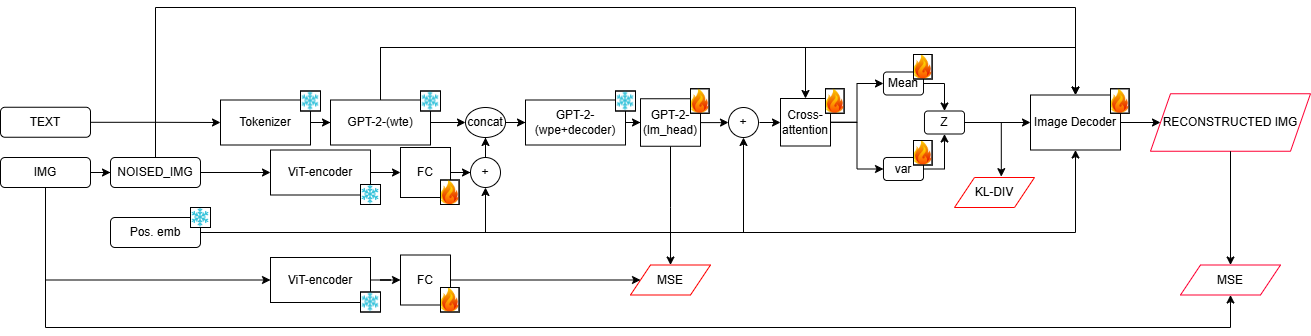
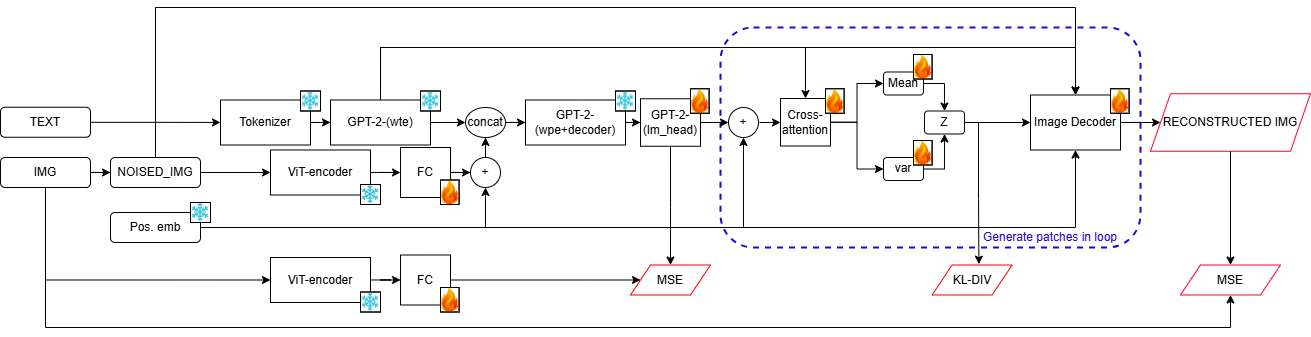
fix train loop, now I decode pathes in the loop

diff --git a/src/model.py b/src/model.py
@@ -320,7 +320,7 @@ class ImageTextGenerator(nn.Module):
     
     def forward(self, text, original_image, noisy_image, kl_weight=0.01):
         """
-        Forward pass with VAE components
+        Forward pass with VAE components and token-wise processing
         
         Args:
             text: Text descriptions
@@ -353,83 +353,178 @@ class ImageTextGenerator(nn.Module):
         ).unsqueeze(1)  # Shape: [batch_size, 1, embedding_dim]
         
         # Concatenate text embeddings with EOS token and noisy image embeddings
-        # Shapes: text_embeddings [batch_size, text_seq_len, hidden_size]
-        #         eos_token_embedding [batch_size, 1, hidden_size]
-        #         noisy_vit_embeddings [batch_size, img_seq_len+1, hidden_size] (+1 for class token)
         combined_embeddings = torch.cat([text_embeddings, eos_token_embedding, noisy_vit_embeddings], dim=1)
 
-        # Auto-regressively generate exactly img_seq_len token embeddings
-        generated_embeddings = []
+        # Подготовка для хранения результатов обработки каждого токена
+        generated_embeddings = []  # Для накопления сгенерированных эмбеддингов
+        mu_list = []  # Для накопления mu
+        log_var_list = []  # Для накопления log_var
+        z_list = []  # Для накопления samplez
+        decoded_patches = []  # Для накопления декодированных патчей
+        
+        # Разделение зашумленного изображения на патчи
+        noisy_patches = None
+        if noisy_image is not None:
+            noisy_patches = []
+            h = w = int(self.image_size // self.patch_size)
+            
+            for i in range(h):
+                for j in range(w):
+                    y_start = i * self.patch_size
+                    y_end = (i + 1) * self.patch_size
+                    x_start = j * self.patch_size
+                    x_end = (j + 1) * self.patch_size
+                    
+                    patch = noisy_image[:, :, y_start:y_end, x_start:x_end]
+                    noisy_patches.append(patch)
+        
+        # Авторегрессивно генерируем эмбеддинги и сразу их обрабатываем
         current_context = combined_embeddings
         
-        for _ in range(self.expected_patches):
-            # Get outputs for the current context
+        for p in range(self.expected_patches):
+            # 1. Генерация следующего токена
             outputs = self.gpt2(inputs_embeds=current_context)
-            next_token_logits = outputs.logits[:, -1, :]  # Get logits for next token [batch, vocab_size]
+            next_token_logits = outputs.logits[:, -1, :]  # [batch, vocab_size]
             
-            # Convert logits to embedding size using the embedding matrix
+            # Преобразование логитов в эмбеддинг
             next_token_embedding = torch.matmul(
-                torch.softmax(next_token_logits, dim=-1),  # Apply softmax to get probabilities [batch, vocab_size]
-                self.gpt2.transformer.wte.weight  # Token embedding matrix [vocab_size, hidden_size]
-            ).unsqueeze(1)  # Add sequence dimension [batch, 1, hidden_size]
+                torch.softmax(next_token_logits, dim=-1),
+                self.gpt2.transformer.wte.weight
+            ).unsqueeze(1)  # [batch, 1, hidden_size]
             
-            # Add to generated list
+            # Добавляем в список
             generated_embeddings.append(next_token_embedding)
             
-            # Update context for next iteration by concatenating
+            # 2. Добавление позиционного эмбеддинга
+            pos_emb = self.patch_pos_embedding[:, p:p+1, :].expand(batch_size, -1, -1)
+            next_token_with_pos = next_token_embedding + pos_emb
+            
+            # 3. Применение cross-attention: токен слушает текст
+            attended_token, _ = self.cross_attention(
+                query=next_token_with_pos,
+                key=text_embeddings,
+                value=text_embeddings
+            )
+            
+            # 4. Вычисление компонентов VAE
+            mu_token = self.fc_mu(attended_token)  # [batch, 1, latent_dim]
+            log_var_token = self.fc_var(attended_token)  # [batch, 1, latent_dim]
+            
+            # Сохраняем для подсчета потерь
+            mu_list.append(mu_token)
+            log_var_list.append(log_var_token)
+            
+            # 5. Репараметризация для каждого токена
+            z_token = self.reparameterize(mu_token, log_var_token)  # [batch, 1, latent_dim]
+            z_list.append(z_token)
+            
+            # 6. Декодирование патча из латентного представления
+            # Создаем текстовый контекст
+            text_context = text_embeddings.mean(dim=1, keepdim=True)  # [batch_size, 1, embed_dim]
+            
+            # Подготовка к декодированию
+            patch_with_context = torch.cat([z_token, text_context], dim=2)
+            
+            # Декодируем патч
+            decoded_patch = self.patch_decoder(patch_with_context.view(batch_size, -1))
+            
+            # 7. Если есть зашумленный патч, используем его для улучшения
+            if noisy_patches is not None:
+                noisy_patch = noisy_patches[p]  # Берем соответствующий патч
+                
+                # Объединяем декодированный и зашумленный патчи
+                combined_patch = torch.cat([decoded_patch, noisy_patch], dim=1)  # [batch, 6, patch_size, patch_size]
+                
+                # Применяем сеть уточнения
+                refined_patch = self.patch_refinement(combined_patch)
+                
+                # Сохраняем обработанный патч
+                decoded_patches.append(refined_patch)
+            else:
+                decoded_patches.append(decoded_patch)
+            
+            # Обновляем контекст для следующей итерации
             current_context = torch.cat([current_context, next_token_embedding], dim=1)
         
-        # Stack the generated embeddings
-        predicted_image_embeddings = torch.cat(generated_embeddings, dim=1)
-
-        # Compute losses
-        # 1. MSE loss between predicted embeddings and original embeddings
+        # Объединяем результаты всех токенов
+        predicted_image_embeddings = torch.cat(generated_embeddings, dim=1)  # [batch, num_patches, embed_dim]
+        mu = torch.cat(mu_list, dim=1)  # [batch, num_patches, latent_dim]
+        log_var = torch.cat(log_var_list, dim=1)  # [batch, num_patches, latent_dim]
+        z = torch.cat(z_list, dim=1)  # [batch, num_patches, latent_dim]
+        
+        # Применяем self-attention между всеми патчами если их больше одного
+        if len(decoded_patches) > 1:
+            # Подготавливаем последовательность патчей для self-attention
+            patches_seq = []
+            for patch in decoded_patches:
+                flat_patch = patch.reshape(batch_size, 3 * self.patch_size * self.patch_size, 1)
+                patches_seq.append(flat_patch)
+            
+            patches_seq = torch.cat(patches_seq, dim=2).transpose(1, 2)  # [batch, num_patches, features]
+            
+            # Применяем self-attention
+            attended_patches, _ = self.patch_self_attention(
+                query=patches_seq,
+                key=patches_seq,
+                value=patches_seq
+            )
+            
+            # Преобразуем обратно в список патчей
+            decoded_patches = []
+            for p in range(self.expected_patches):
+                patch_flat = attended_patches[:, p, :]
+                patch = patch_flat.view(batch_size, 3, self.patch_size, self.patch_size)
+                decoded_patches.append(patch)
+        
+        # Собираем полное изображение из патчей
+        h = w = int(self.image_size // self.patch_size)
+        rows = []
+        
+        for i in range(h):
+            row_patches = []
+            for j in range(w):
+                patch_idx = i * w + j
+                row_patches.append(decoded_patches[patch_idx])
+            
+            # Объединяем патчи в ряд
+            row = torch.cat(row_patches, dim=3)  # вдоль ширины
+            rows.append(row)
+        
+        # Объединяем ряды в изображение
+        predicted_image = torch.cat(rows, dim=2)  # вдоль высоты
+        predicted_image = torch.sigmoid(predicted_image)  # Гарантируем, что значения пикселей в [0, 1]
+        
+        # Вычисляем потери
+        # 1. MSE между предсказанными и оригинальными эмбеддингами
         mse_loss = torch.nn.functional.mse_loss(
             predicted_image_embeddings,
-            original_vit_embeddings[:, 1:, :]  # Exclude class token
+            original_vit_embeddings[:, 1:, :]  # Исключаем class token
         )
-
-        # Concatenate text context with image embeddings
-        patches_with_pos = predicted_image_embeddings + self.patch_pos_embedding
         
-        # Apply cross-attention: patches attend to text
-        attended_embeddings, _ = self.cross_attention(
-            query=patches_with_pos,
-            key=text_embeddings,
-            value=text_embeddings
-        )
-
-        # Calculate VAE components
-        mu = self.fc_mu(attended_embeddings)  # [batch, num_patches, latent_dim]
-        log_var = self.fc_var(attended_embeddings)  # [batch, num_patches, latent_dim]
+        # 2. KL дивергенция для VAE
+        kl_loss = self.kl_loss(mu, log_var)
         
-        # 3. KL divergence loss for VAE - computed per patch
-        kl_loss = self.kl_loss(mu, log_var)  # Already handles patch-wise computation
-        
-        # 4. Sample from latent space using reparameterization trick for each patch
-        z = self.reparameterize(mu, log_var)  # [batch, num_patches, latent_dim]
-        
-        # 5. Decode sampled latent vectors patch by patch с учетом зашумленного изображения
-        predicted_image = self.decode_image(z, text_embeddings, noisy_image)  # Передаем noisy_image
+        # 3. Потеря реконструкции
         reconstruction_loss = torch.nn.functional.mse_loss(
             predicted_image,
             original_image
         )
         
-        # Combine losses with weights
+        # Комбинируем потери с весами
         total_loss = mse_loss + kl_weight * kl_loss + reconstruction_loss
         
-        # Create outputs dictionary with all patch-wise components
+        # Создаем словарь выходных значений
         outputs = {
             'mse_loss': mse_loss,
             'kl_loss': kl_loss, 
             'reconstruction_loss': reconstruction_loss,
-            'predicted_embeddings': predicted_image_embeddings,  # [batch, num_patches, embed_dim]
+            'predicted_embeddings': predicted_image_embeddings,
             'predicted_image': predicted_image,
-            'mu': mu,  # [batch, num_patches, latent_dim]
-            'log_var': log_var,  # [batch, num_patches, latent_dim] 
-            'sampled_z': z  # [batch, num_patches, latent_dim]
+            'mu': mu,
+            'log_var': log_var,
+            'sampled_z': z
         }
+        
         return total_loss, outputs
     
 

diff --git a/src/train.py b/src/train.py
@@ -296,10 +296,6 @@ def validate(model, val_loader, device, kl_weight=0.01, epoch=0, debug=False, ma
             # Очищаем ненужные переменные
             del images, noisy_images, outputs, loss
             
-            # Ограничиваем количество батчей в режиме отладки
-            if debug and max_batches and batch_idx >= max_batches - 1:
-                break
-        
         # Очищаем кэш CUDA в конце валидации
         if torch.cuda.is_available():
             torch.cuda.empty_cache()
@@ -480,10 +476,6 @@ def train(model, train_loader, val_loader, optimizer, device, num_epochs=10, sav
             predicted_image = outputs['predicted_image'].detach()
             del outputs
 
-            # Limit batches per epoch in debug mode
-            if debug and max_batches_per_epoch and batch_idx >= max_batches_per_epoch:
-                break
-        
         # Visualize only in certain batches and end of epoch
         visualize_batch(
             images, 
@@ -688,7 +680,9 @@ def main():
         print("Running in DEBUG mode with reduced parameters")
         batch_size = 2
         num_epochs = 3
-        max_batches_per_epoch = 5
+        max_batches_per_epoch = 20
+        args.max_train_samples = 200
+        args.max_val_samples = 200
     else:
         batch_size = args.batch_size
         num_epochs = args.epochs
